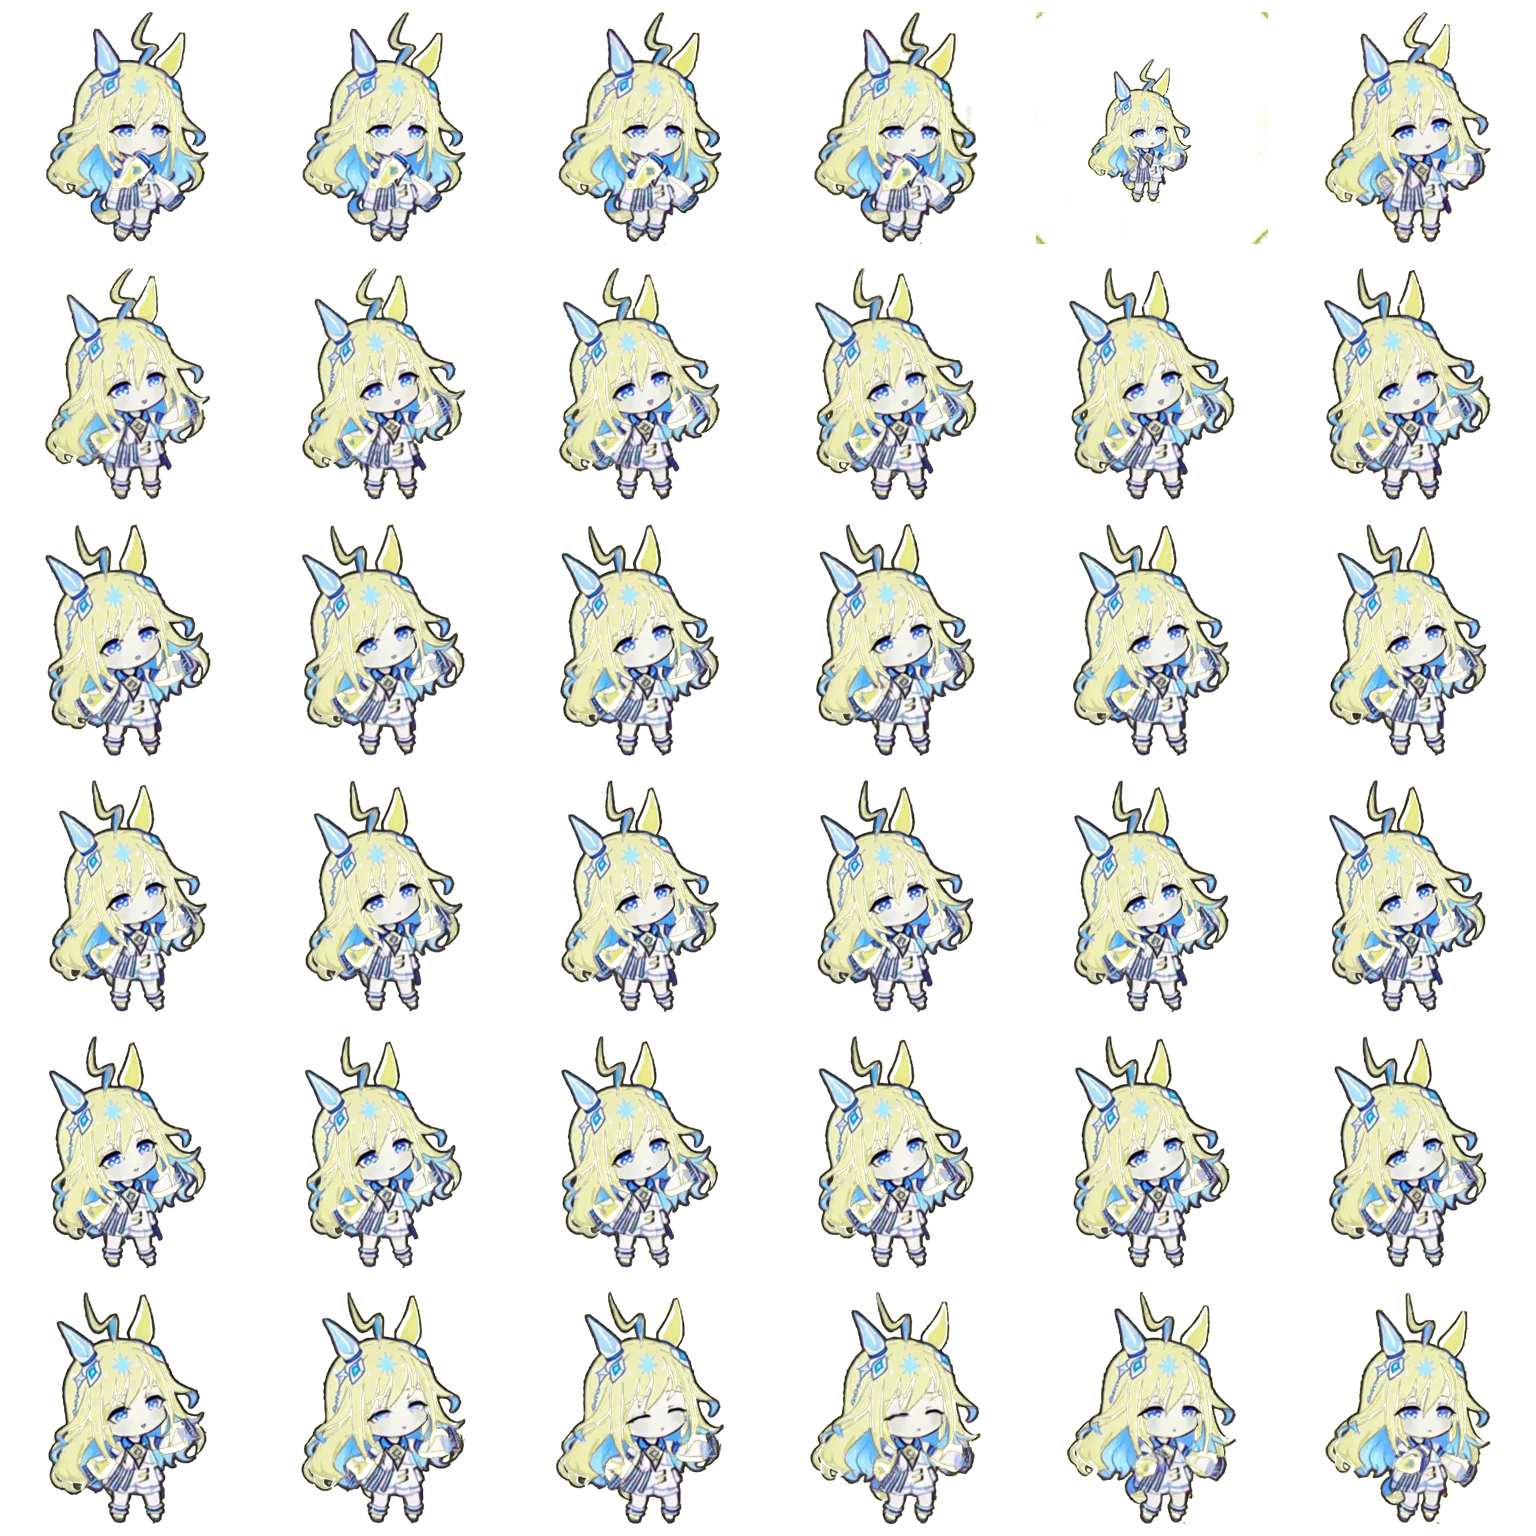
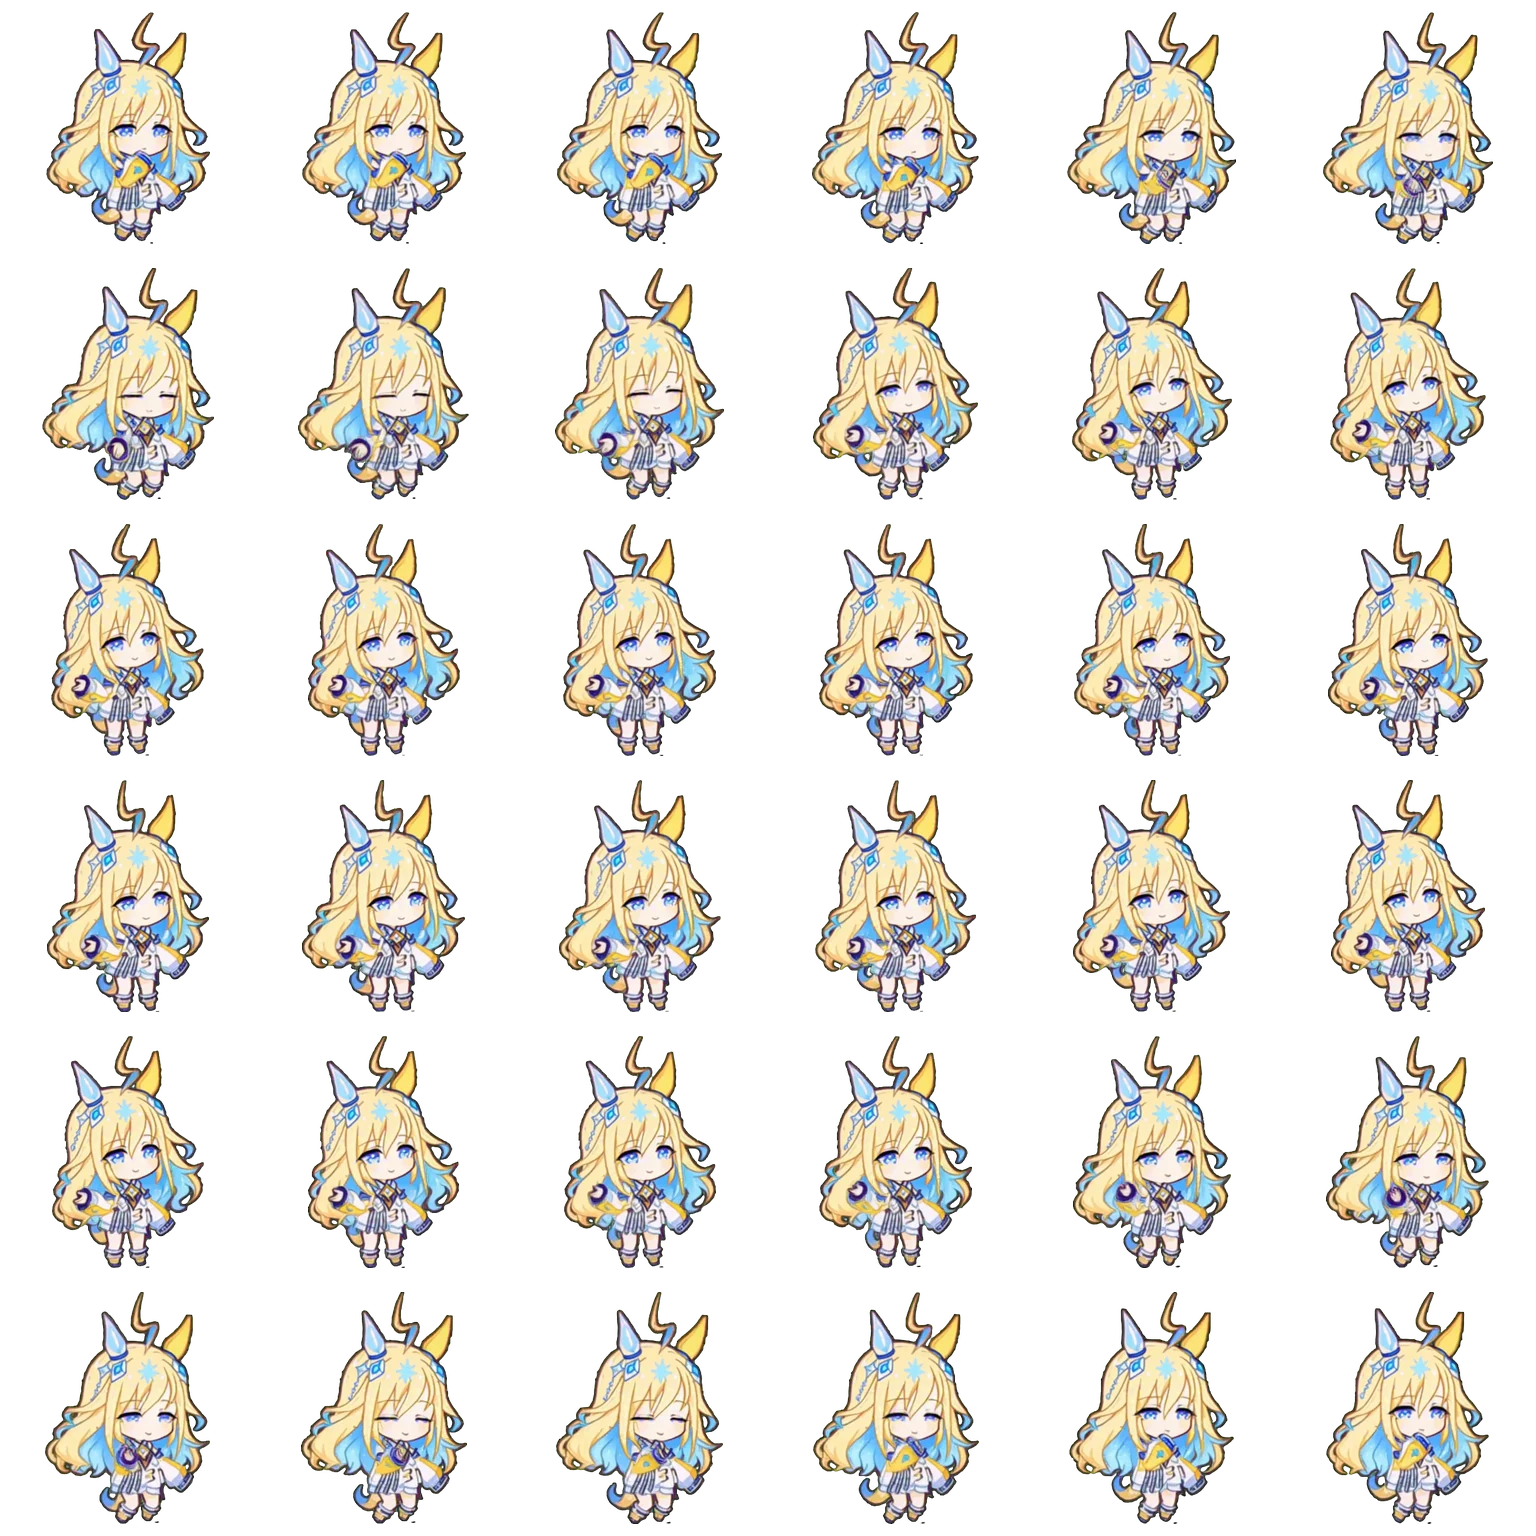
Remove faulty Neo ask animation

diff --git a/src/components/AIChatBot.tsx b/src/components/AIChatBot.tsx
@@ -1,6 +1,6 @@
 "use client";
 
-import React, { useState, useRef, useEffect, useMemo } from "react";
+import React, { useState, useRef, useEffect } from "react";
 import {
   Sparkles,
   Send,
@@ -24,10 +24,7 @@ interface Message {
   time: string;
 }
 
-type AskAnimation = Extract<NeoUniverseAnimation, "ask" | "ask-alt">;
 type PendingImage = { file: File; previewUrl: string };
-
-const pickAskAnimation = (): AskAnimation => Math.random() < 0.5 ? "ask" : "ask-alt";
 
 // Subcomponent hiển thị ảnh chat thông minh, tự động fallback nếu link ảnh lỗi/chặn
 function ChatImage({ url, alt }: { url: string; alt: string }) {
@@ -80,7 +77,6 @@ export default function AIChatBot() {
   const [petVisible, setPetVisible] = useState(true);
   const [petConversationOpen, setPetConversationOpen] = useState(false);
   const [showPetGreeting, setShowPetGreeting] = useState(false);
-  const [askAnimation, setAskAnimation] = useState<AskAnimation>("ask");
   const [petConversationPosition, setPetConversationPosition] = useState<{ left: number; top: number; width: number } | null>(null);
   const [ambientAnimation, setAmbientAnimation] = useState<NeoUniverseAnimation>("idle");
   const [ambientHint, setAmbientHint] = useState("");
@@ -123,7 +119,6 @@ export default function AIChatBot() {
       setShowGreetingAnimation(false);
       return;
     }
-    setAskAnimation(pickAskAnimation());
     setShowGreetingAnimation(true);
     const timer = window.setTimeout(() => setShowGreetingAnimation(false), 2200);
     return () => window.clearTimeout(timer);
@@ -134,7 +129,6 @@ export default function AIChatBot() {
       setShowPetGreeting(false);
       return;
     }
-    setAskAnimation(pickAskAnimation());
     setShowPetGreeting(true);
     const timer = window.setTimeout(() => setShowPetGreeting(false), 1500);
     return () => window.clearTimeout(timer);
@@ -374,14 +368,13 @@ export default function AIChatBot() {
     if (/đặt cọc|xác nhận đơn|xác nhận đặt|hoàn tất giao dịch|đã tạo đơn/i.test(text)) return "confirm";
     if (/đề xuất|gợi ý|nên chọn|phù hợp nhất|khuyên chọn/i.test(text)) return "recommend";
     if (/sản phẩm|mặt hàng|giá ước tính|tìm kiếm trên amazon|mercari/i.test(text)) return "presentation";
-    if (/\?\s*$/.test(text.trim())) return responseAskAnimation;
+    if (/\?\s*$/.test(text.trim())) return "ask";
     return "explain";
   };
-  const responseAskAnimation = useMemo(pickAskAnimation, [latestAssistantMessage?.id]);
   const petAnimation: NeoUniverseAnimation = (() => {
     if (!isOpen && !petConversationOpen) return ambientAnimation;
-    if (petConversationOpen && showPetGreeting) return askAnimation;
-    if (isOpen && showGreetingAnimation) return askAnimation;
+    if (petConversationOpen && showPetGreeting) return "ask";
+    if (isOpen && showGreetingAnimation) return "ask";
     if (imageAnalyzing || loading) return "analyze";
     if (inputMessage.trim()) return "listen";
     return latestAssistantMessage ? responseAnimation(latestAssistantMessage.text) : "listen";
@@ -877,8 +870,8 @@ export default function AIChatBot() {
             onPointerMove={handlePetPointerMove}
             onPointerUp={handlePetPointerUp}
             onPointerCancel={handlePetPointerUp}
-            onPointerEnter={() => { setIsPetHovered(true); setAmbientAnimation(pickAskAnimation()); setAmbientHint("Kéo Neo để di chuyển · Chạm để tư vấn"); }}
-            onPointerLeave={() => { setIsPetHovered(false); setAmbientAnimation((current) => current === "ask" || current === "ask-alt" ? "idle" : current); setAmbientHint(""); }}
+            onPointerEnter={() => { setIsPetHovered(true); setAmbientAnimation("ask"); setAmbientHint("Kéo Neo để di chuyển · Chạm để tư vấn"); }}
+            onPointerLeave={() => { setIsPetHovered(false); setAmbientAnimation((current) => current === "ask" ? "idle" : current); setAmbientHint(""); }}
             className="group pointer-events-auto flex touch-none select-none flex-col items-center justify-end rounded-2xl p-0.5 transition-transform duration-200 hover:scale-105 focus-visible:outline focus-visible:outline-2 focus-visible:outline-offset-2 focus-visible:outline-banana-500"
             style={{ touchAction: "none" }}
             aria-label="Mở tư vấn AI cùng Neo Universe"

diff --git a/src/components/NeoUniverseSprite.tsx b/src/components/NeoUniverseSprite.tsx
@@ -5,7 +5,6 @@ import { useEffect, useRef } from "react";
 export type NeoUniverseAnimation =
   | "analyze"
   | "ask"
-  | "ask-alt"
   | "confirm"
   | "explain"
   | "idle"
@@ -25,7 +24,6 @@ type Props = {
 const SPRITES: Record<NeoUniverseAnimation, string> = {
   analyze: "/neo-universe/analyze.webp",
   ask: "/neo-universe/ask.webp",
-  "ask-alt": "/neo-universe/ask-alt.webp",
   confirm: "/neo-universe/confirm.webp",
   explain: "/neo-universe/explain.webp",
   idle: "/neo-universe/idle.webp",

diff --git a/NEOUNIVERSE_AI_WEB_INTEGRATION.md b/NEOUNIVERSE_AI_WEB_INTEGRATION.md
@@ -67,7 +67,7 @@ Tên và vai trò ở cột cuối chỉ là gợi ý; cần xem chuyển độn
 
 ### Nâng cấp trải nghiệm pet trên website
 
-- Dùng thêm animation `move` và `ask-alt`; Neo tự đi đến các vị trí ngẫu nhiên trong viewport, thỉnh thoảng chào và hiện lời mời hỗ trợ.
+- Dùng animation `move` khi di chuyển và `ask` để Neo chào, hỏi nhu cầu. Sprite `ask` dùng biến thể hợp lệ, không dùng sheet có lỗi hình ảnh.
 - Có thể kéo Neo bằng chuột hoặc cảm ứng đến vị trí tùy ý trong cửa sổ; vị trí được lưu trên thiết bị. Có nút tạm dừng/tiếp tục đi dạo, đưa Neo về góc mặc định, ẩn và hiện lại.
 - Hover vào Neo kích hoạt động tác chào; nhấn Neo mở hội thoại thu gọn ngay cạnh nhân vật. Người dùng gửi tin nhắn, dùng gợi ý nhanh và nhận trả lời qua cùng API `/api/ai/chat` với lịch sử hội thoại hiện tại; nội dung phản hồi được gõ dần trong bong bóng chat và có thể chuyển sang khung chat đầy đủ.
 - Animation đổi theo lúc chờ, nghe, xử lý và loại câu trả lời; khi nhập tin nhắn Neo chuyển sang trạng thái lắng nghe.
